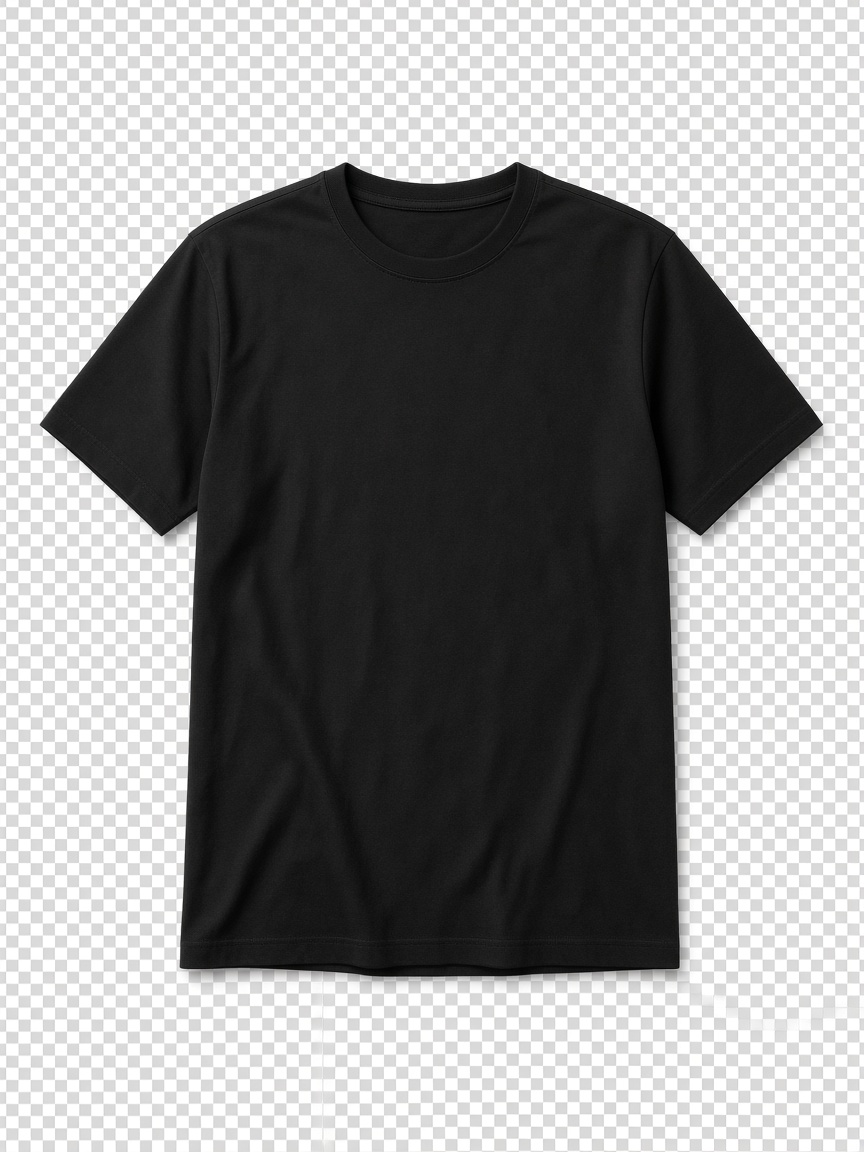
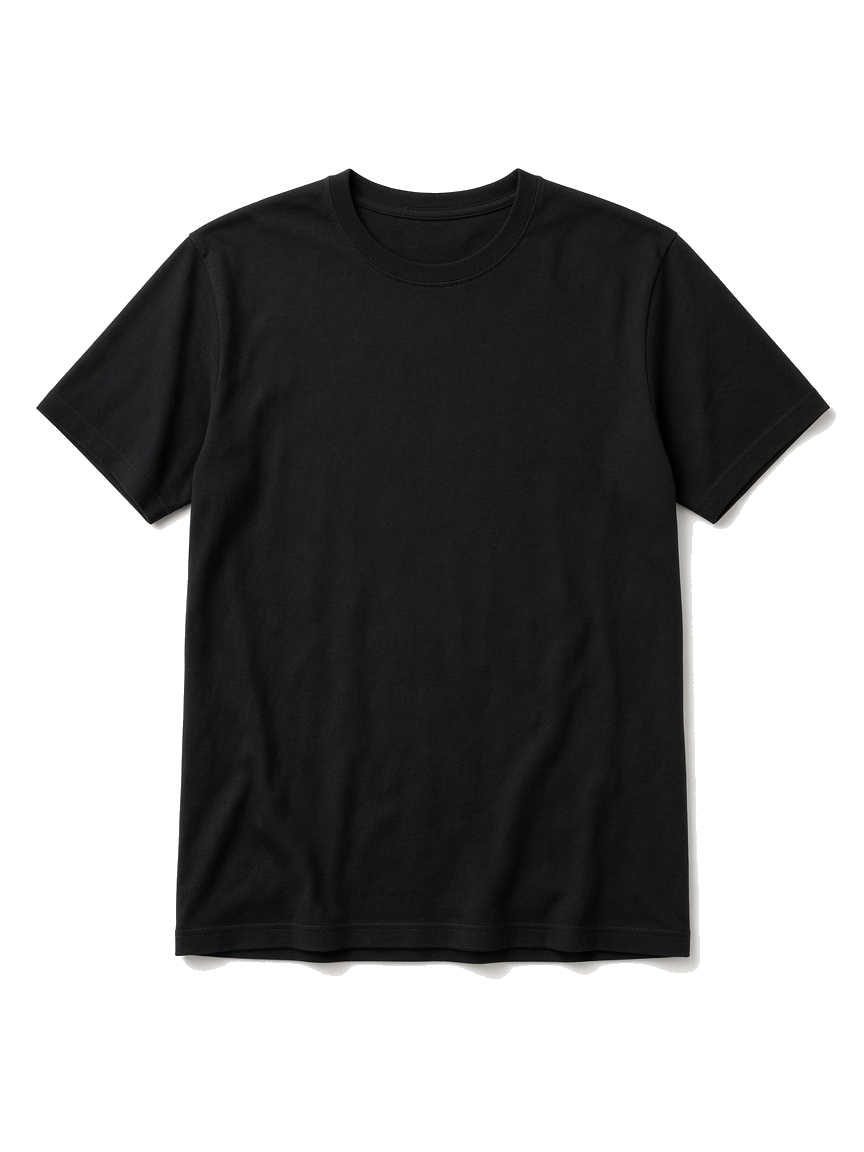
Transparent garment layers for cleaner doll try-on
Knock white backgrounds from layer PNGs and drop size badges on overlays so shirts, hats, and pants sit on the figure without opaque squares.

Changed region(s): [[0.0, 0.0, 1.0, 1.0], [0.1875, 0.375, 0.2188, 0.4062]]

diff --git a/smart-fashion-finder/src/components/DressableFigure.tsx b/smart-fashion-finder/src/components/DressableFigure.tsx
@@ -59,8 +59,6 @@ export function DressableFigure({
           style={{
             width: dollW,
             height: dollH,
-            borderRadius: 8,
-            backgroundColor: '#FAF8F5',
           }}
         >
           <Image
@@ -233,6 +231,8 @@ function FittedGarment({
         height: layout.height,
         alignItems: 'center',
         justifyContent: 'center',
+        overflow: 'hidden',
+        backgroundColor: 'transparent',
       }}
     >
       {src ? (
@@ -242,6 +242,7 @@ function FittedGarment({
             width: '100%',
             height: '100%',
             resizeMode: 'contain',
+            backgroundColor: 'transparent',
           }}
         />
       ) : (
@@ -255,14 +256,6 @@ function FittedGarment({
           }}
         />
       )}
-      {region !== 'shoes' && region !== 'hat' ? (
-        <View
-          className="absolute rounded-full bg-black/65 px-2 py-0.5"
-          style={{ bottom: 2 }}
-        >
-          <Text className="font-bodyMedium text-[9px] text-white">{piece.size}</Text>
-        </View>
-      ) : null}
     </View>
   );
 }
